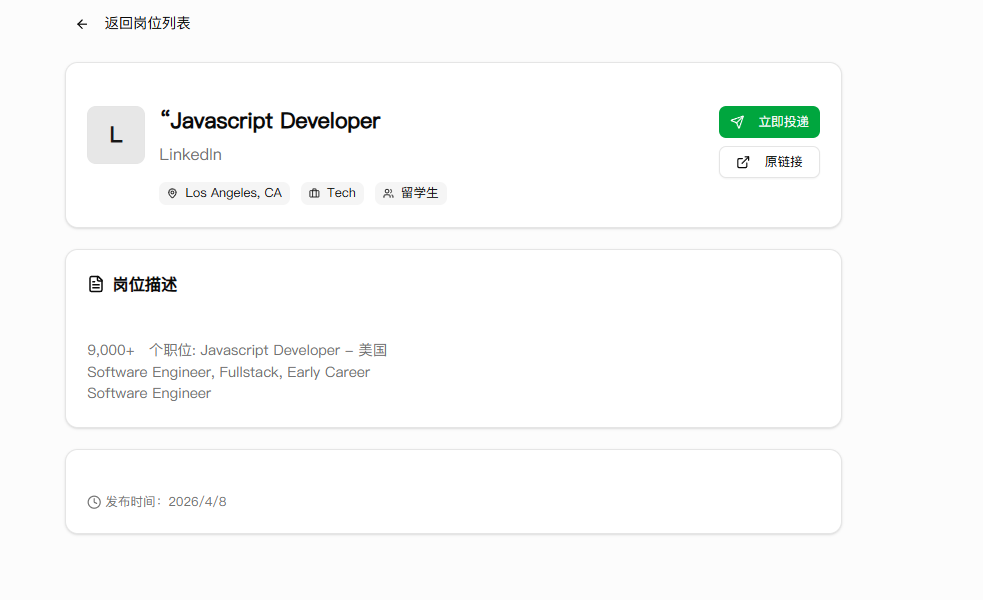
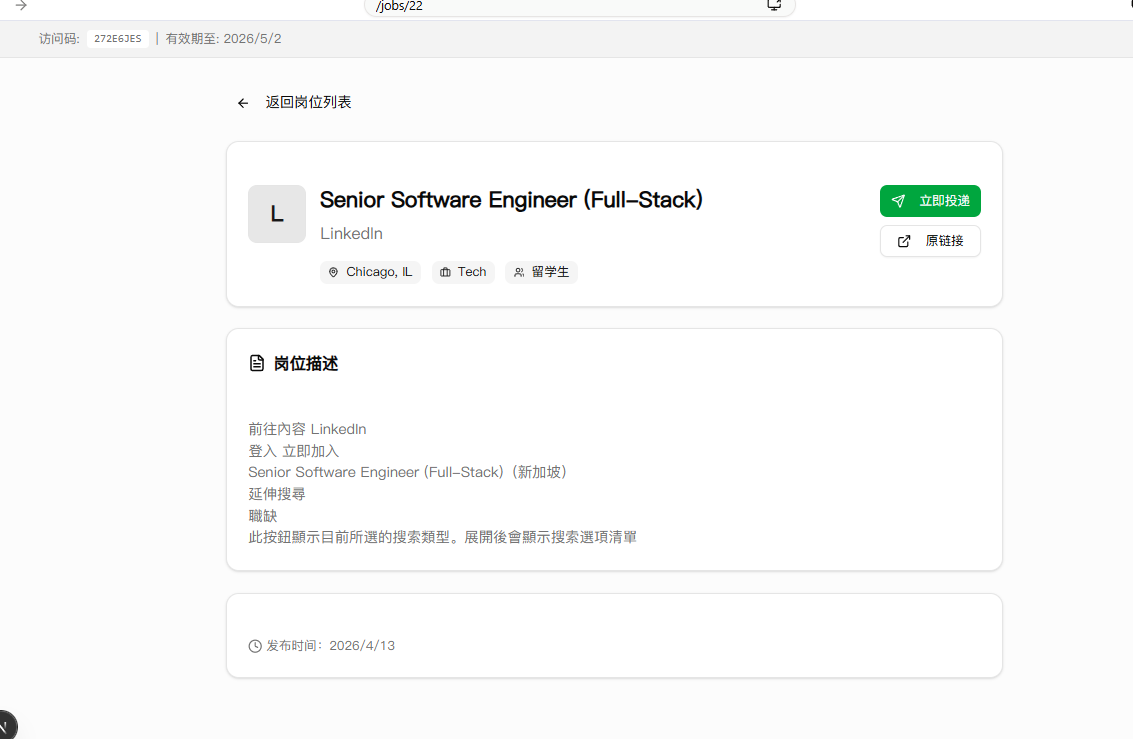
fix: filter out third-party recruiter job posts, keep only official company postings

diff --git a/src/app/api/jobs/sync-us-tech/route.ts b/src/app/api/jobs/sync-us-tech/route.ts
@@ -125,8 +125,9 @@ function isValidJob(title: string, url: string): boolean {
   
   // 8. 过滤关键词在 at 后面
   const thirdPartyKeywords = [
-    'dubclub', 'zensar', 'chels', 'lazer', 'honeysuckle', 'gelato',
-    'w2/c2c', 'w2_c2c', 'contract', 'corp', 'corp-to-cor', 'c2c'
+    'dubclub', 'zensar', 'chels', 'lazer technologies', 'honeysuckle', 'gelato',
+    'w2/c2c', 'w2_c2c', 'corp-to-corp', 'corp2corp', 'c2c',
+    'talent acquisition', 'recruiting partner'
   ];
   for (const keyword of thirdPartyKeywords) {
     if (titleLower.includes(keyword)) return false;
@@ -138,7 +139,22 @@ function isValidJob(title: string, url: string): boolean {
     return false;
   }
   
-  // 8. 过滤标题是纯地区名的情况
+  // 10. 如果是 LinkedIn URL，检查是否包含第三方公司名（at xxx）
+  // 例如: linkedin.com/jobs/view/xxx-at-dubclub
+  if (urlLower.includes('linkedin.com')) {
+    const linkedinAtMatch = urlLower.match(/\/jobs\/view\/[\w-]+-at-([a-z0-9-]+)/);
+    if (linkedinAtMatch) {
+      const companyAfterAt = linkedinAtMatch[1];
+      const targetCompanies = TECH_COMPANIES.map(c => c.toLowerCase());
+      const isTargetCompany = targetCompanies.some(c => 
+        companyAfterAt === c || companyAfterAt.includes(c)
+      );
+      // 如果 "at" 后面的公司不是目标公司，则是猎头发布的
+      if (!isTargetCompany) return false;
+    }
+  }
+  
+  // 11. 过滤标题是纯地区名的情况
   if (/^(San Francisco|Seattle|New York|Los Angeles|Austin|Boston|Chicago|Denver|Atlanta|London|Tokyo|Singapore|Hong Kong),?\s*(,|$)/i.test(title)) {
     return false;
   }
